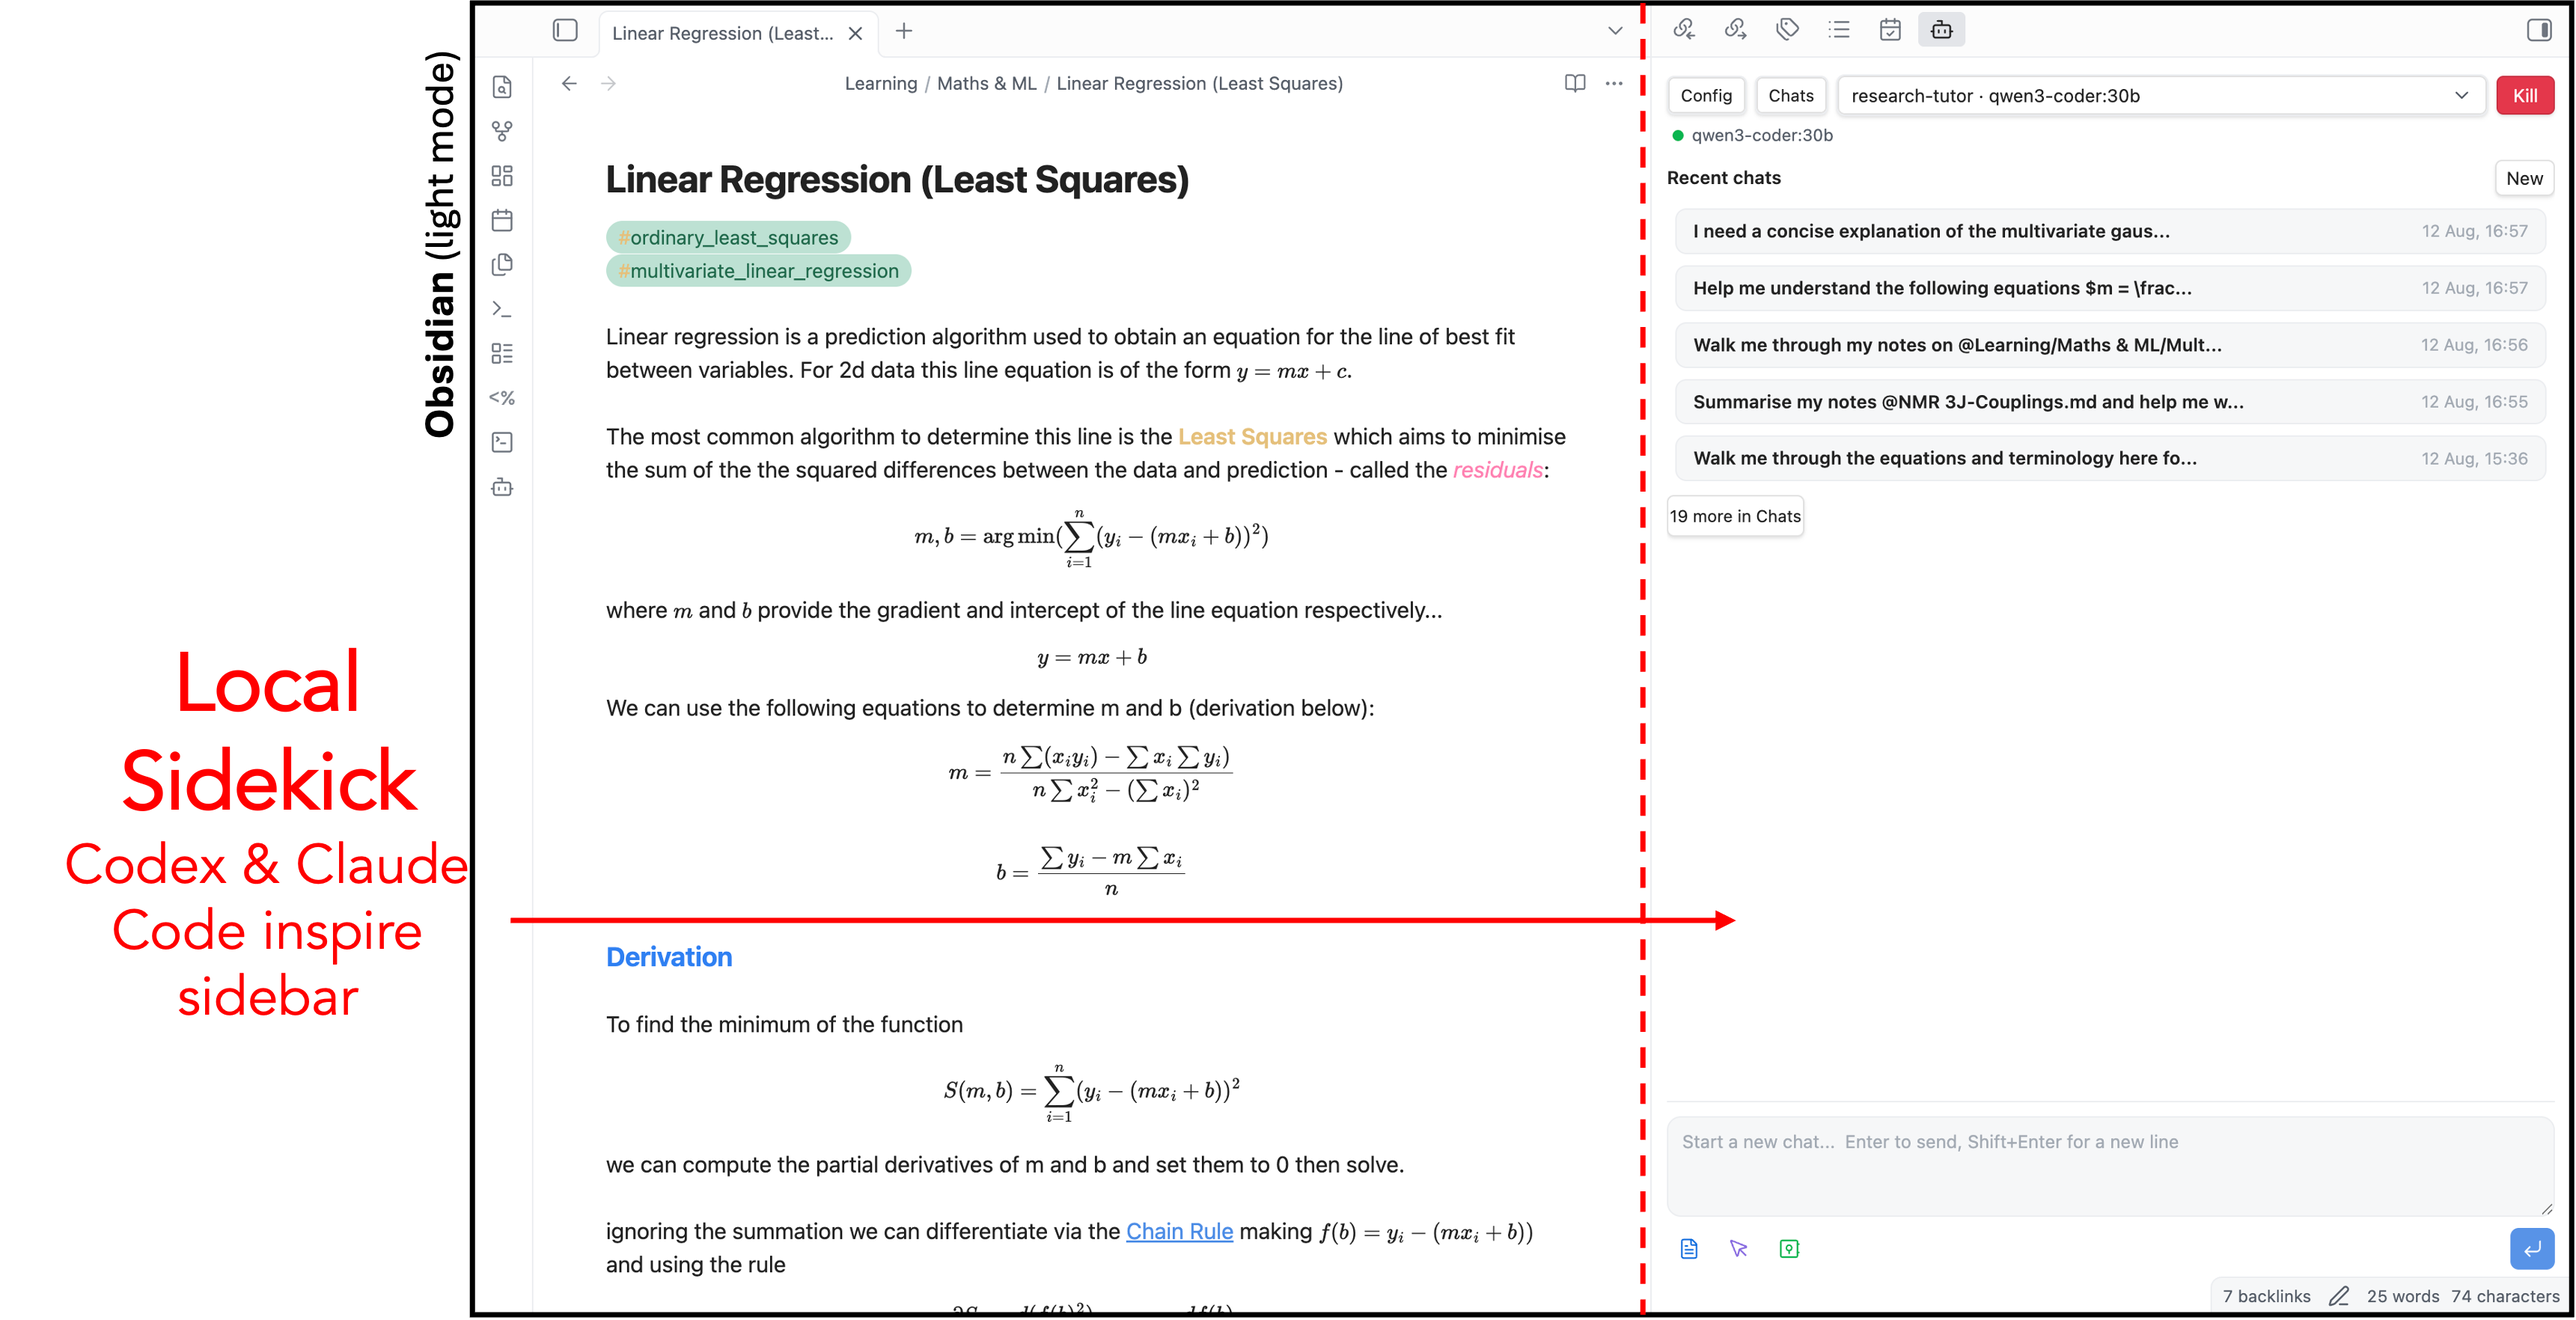
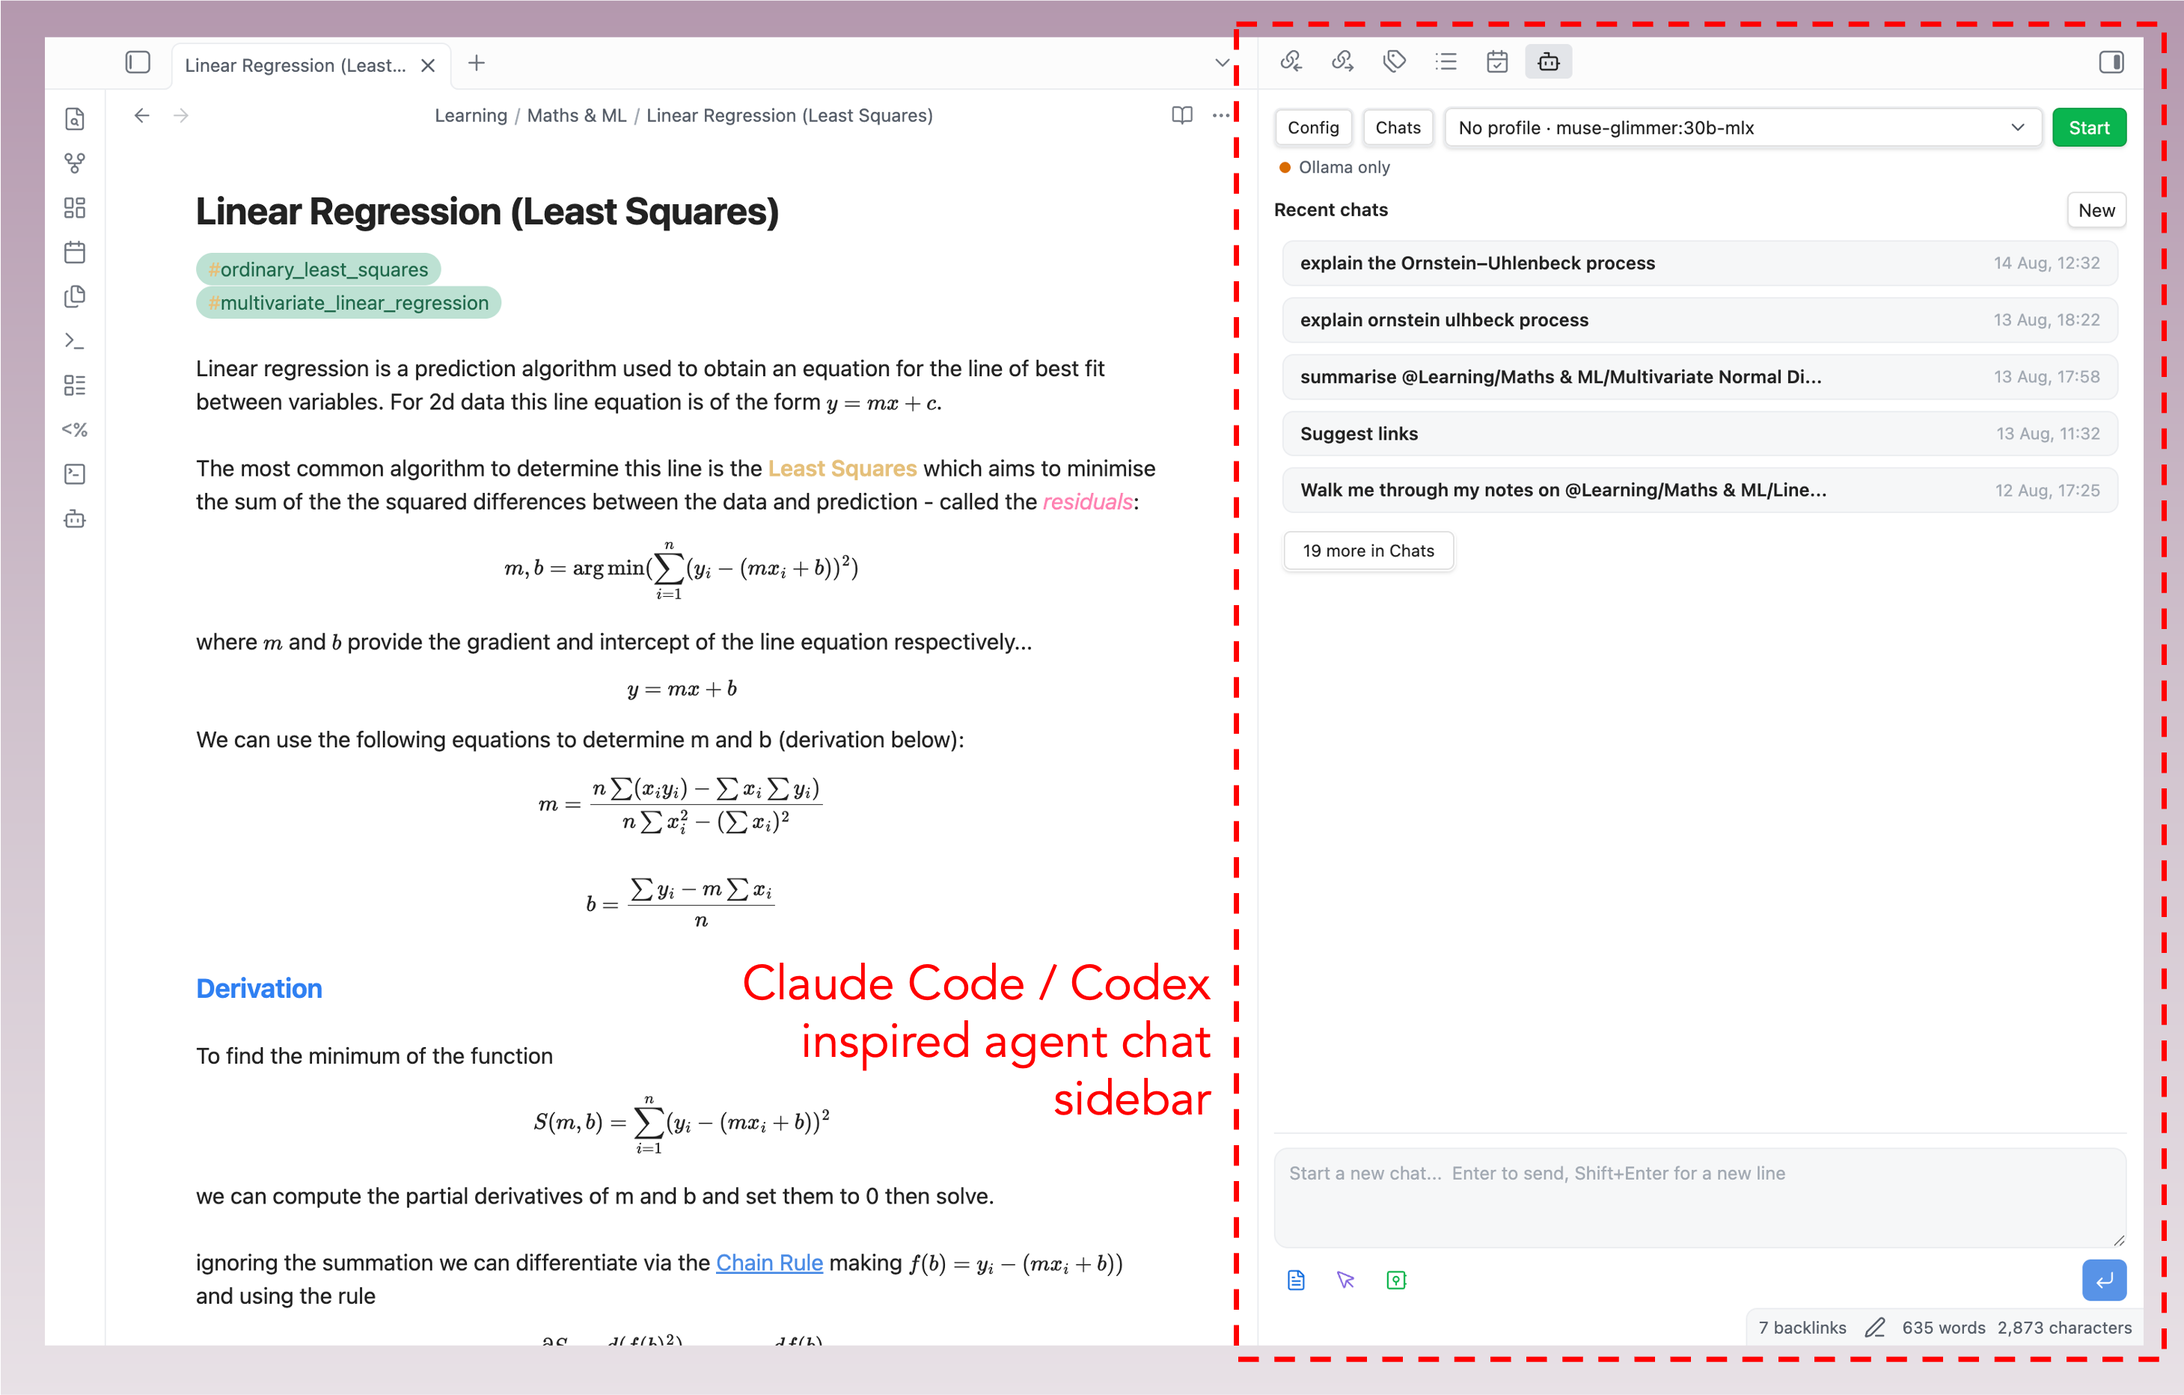
fix: give the Config and Chats dropdowns an explicit close button

diff --git a/src/ui/renderDashboard.ts b/src/ui/renderDashboard.ts
@@ -147,6 +147,28 @@ function renderIconButton(
   return button;
 }
 
+/**
+ * Both dropdowns are toggled from the top bar, which is not obvious once one is
+ * open and the list under it has the focus. This gives each an explicit close.
+ */
+function renderDropdownClose(
+  containerEl: HTMLElement,
+  options: DashboardRenderOptions,
+  tooltip: string
+): void {
+  renderIconButton(containerEl, {
+    fallbackText: "Close",
+    icon: "x",
+    tooltip,
+    variant: "close",
+    onClick: () => {
+      options.host.ui.menuOpen = false;
+      options.host.ui.chatsOpen = false;
+      options.host.rerender();
+    }
+  });
+}
+
 /** Vault files attached to every prompt until unpinned. */
 function renderPinnedContext(
   plugin: AgentDashboardPlugin,
@@ -871,6 +893,7 @@ function renderMenuDropdown(
       await plugin.startPipeline();
       options.host.rerender();
     });
+  renderDropdownClose(statusControlsEl, options, "Close config");
   const listEl = statusSection.createDiv({ cls: "agent-dashboard__status-list" });
   renderStatusList(plugin, listEl, options);
 }
@@ -899,6 +922,7 @@ function renderChatsDropdown(
       void plugin.startNewAgentSession();
       options.host.rerender();
     });
+  renderDropdownClose(controlsEl, options, "Close all chats");
 
   const sessions = plugin.getAgentSessionHistory();
   if (sessions.length === 0) {
@@ -2537,7 +2561,12 @@ function replaceInlineFileReferences(
   const text = textNode.textContent ?? "";
   // Deliberately the plain DOM API rather than Obsidian's createFragment /
   // createEl helpers: the linter prefers those, but they build against the
-  // global document, and this must stay in the text node's own document.
+  // global document, and this must stay in the text node's own document
+  // (rendered messages can live in a pop-out window). The rule's suggested
+  // alternative, ownerDocument.win.createEl, does not typecheck either --
+  // obsidian 1.12.3 declares neither createEl nor createFragment on Window.
+  // Leave the two warnings; obsidianmd/no-restricted-disable forbids silencing
+  // them inline.
   const fragment = textNode.ownerDocument.createDocumentFragment();
   let offset = 0;
   let changed = false;

diff --git a/styles.css b/styles.css
@@ -1508,6 +1508,12 @@
   --agent-dashboard-action: var(--color-yellow, #c9a227);
 }
 
+/* Dismisses a dropdown, so it stays quiet until hovered. */
+.agent-dashboard__icon-button--close {
+  --agent-dashboard-action: var(--color-red, #c0554d);
+  color: var(--agent-dashboard-muted);
+}
+
 /* Send and Stop are the primary actions, so they read as filled by default. */
 .agent-dashboard__icon-button--send.agent-dashboard__icon-button--send,
 .agent-dashboard__icon-button--stop.agent-dashboard__icon-button--stop {

diff --git a/CHANGELOG.md b/CHANGELOG.md
@@ -46,6 +46,7 @@ back to your own configuration.
 
 ### Fixed
 
+- Give the Config and Chats dropdowns an explicit close button. Both could only be dismissed by re-clicking their top-bar toggle, which is undiscoverable when the chat list was opened from the home page's "more in Chats" link rather than from the Chats button itself.
 - Keep the transcript where you scrolled it. Repaints during a run were re-pinning to the bottom, which made it impossible to scroll back and read anything mid-reply.
 - Keep the composer editable while a reply streams, preserving the draft, focus, and caret position across repaints. Sending is still gated on the run finishing.
 - Let the transcript shrink when a dropdown opens, so the composer is no longer pushed off the bottom of the panel.
